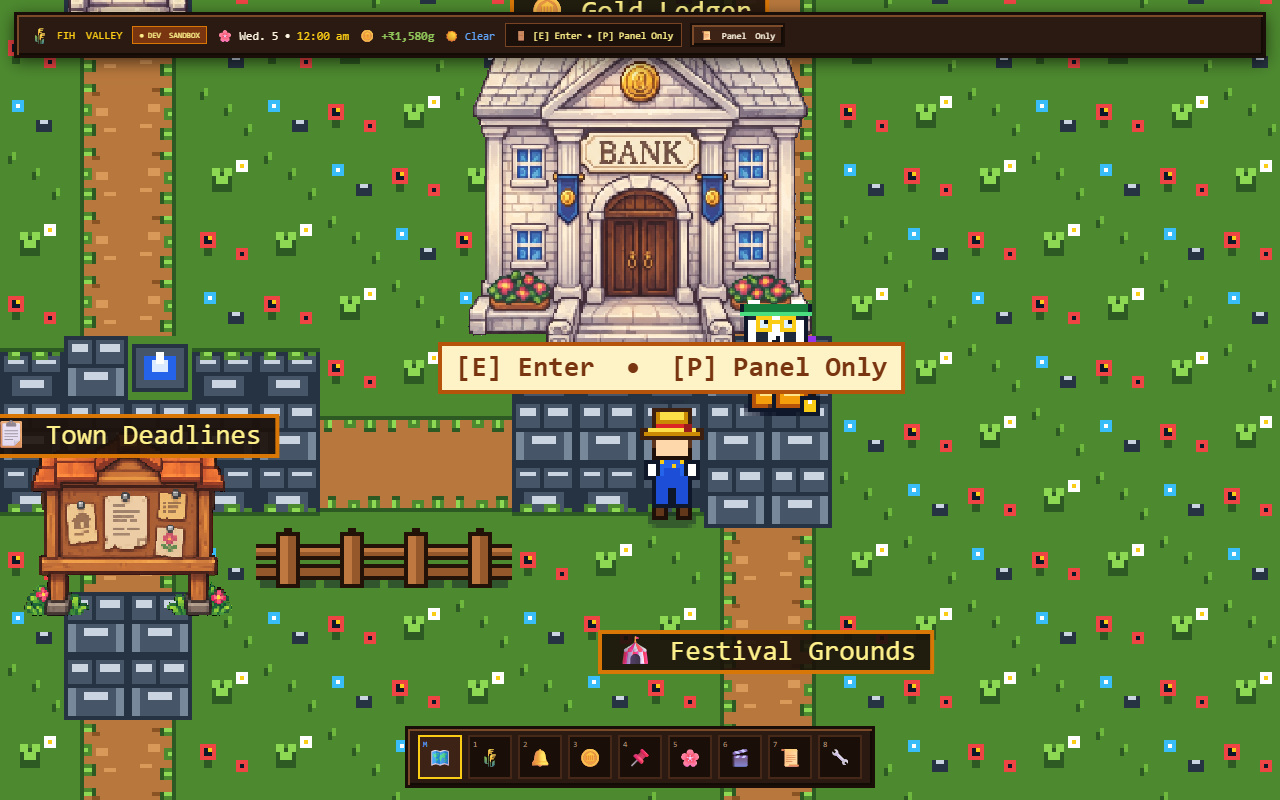
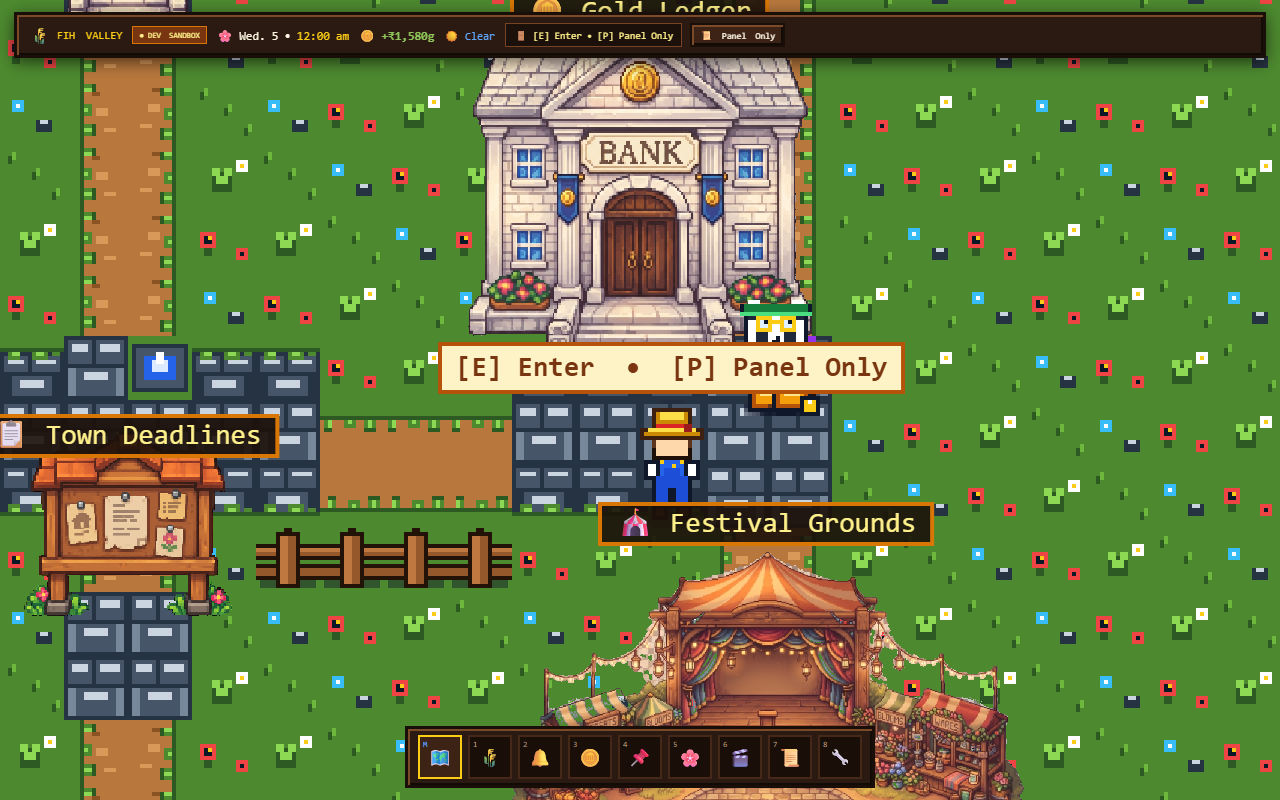
feat(overworld): replace festival grounds with custom pixel art pavilion model

Changed region(s): [[0.4062, 0.625, 0.8125, 1.0]]

diff --git a/components/world/PixelWorldCanvas.jsx b/components/world/PixelWorldCanvas.jsx
@@ -84,12 +84,12 @@ export const BUILDING_HITBOXES = [
     icon: '🎪',
     doorX: 28 * TILE_SIZE,
     doorY: 19 * TILE_SIZE,
-    minX: 25 * TILE_SIZE,
-    minY: 16 * TILE_SIZE,
-    maxX: 31 * TILE_SIZE,
-    maxY: 21 * TILE_SIZE,
+    minX: 24 * TILE_SIZE,
+    minY: 14 * TILE_SIZE,
+    maxX: 32 * TILE_SIZE,
+    maxY: 20 * TILE_SIZE,
     bannerX: 28 * TILE_SIZE,
-    bannerY: 16 * TILE_SIZE - 6,
+    bannerY: 14 * TILE_SIZE - 6,
   },
   {
     id: 'watchlist',
@@ -293,8 +293,8 @@ export function isWalkable(wx, wy) {
     return false;
   }
 
-  // 8. Chapter 5: The Festival Grounds Gazebo canopy (tx: 26-29, ty: 17-18)
-  if (tx >= 26 && tx <= 29 && ty >= 17 && ty <= 18) {
+  // 8. Chapter 5: The Festival Grounds stage & canopy (tx: 26-29, ty: 16-18)
+  if (tx >= 26 && tx <= 29 && ty >= 16 && ty <= 18) {
     return false;
   }
 
@@ -426,7 +426,7 @@ export default function PixelWorldCanvas({
   const lastReportedNearbyRef = useRef(undefined);
 
   const stateRef = useRef({
-    images: { tileset: null, pip: null, bram: null, farmhouse: null, notice_board: null, bank: null, bell_tower: null },
+    images: { tileset: null, pip: null, bram: null, farmhouse: null, notice_board: null, bank: null, bell_tower: null, festival_grounds: null },
     loaded: false,
     camera: { x: 18 * 16, y: 12 * 16 }, // Center at Village Square on spawn
     targetCamera: { x: 18 * 16, y: 12 * 16 },
@@ -456,6 +456,7 @@ export default function PixelWorldCanvas({
       { key: 'notice_board', src: '/assets/buildings/notice_board.png' },
       { key: 'bank', src: '/assets/buildings/bank.png' },
       { key: 'bell_tower', src: '/assets/buildings/bell_tower.png' },
+      { key: 'festival_grounds', src: '/assets/buildings/festival_grounds.png' },
     ];
 
     let count = 0;
@@ -1066,18 +1067,27 @@ export default function PixelWorldCanvas({
         },
       });
 
-      // ── 6. Chapter 5: The Festival Grounds (x: 28, y: 19) ──
+      // ── 6. Chapter 5: The Festival Grounds (New Custom Festival Grounds) ──
       renderables.push({
-        y: 20 * TILE_SIZE,
+        y: 19 * TILE_SIZE + 6,
         render: () => {
-          const gx = 27 * TILE_SIZE;
-          const gy = 17 * TILE_SIZE;
-          ctx.drawImage(tileset, 7 * TILE_SIZE, 3 * TILE_SIZE, TILE_SIZE, TILE_SIZE, gx, gy, TILE_SIZE, TILE_SIZE);
-          ctx.drawImage(tileset, 7 * TILE_SIZE, 3 * TILE_SIZE, TILE_SIZE, TILE_SIZE, gx + TILE_SIZE, gy, TILE_SIZE, TILE_SIZE);
-          ctx.drawImage(tileset, 7 * TILE_SIZE, 2 * TILE_SIZE, TILE_SIZE, TILE_SIZE, gx - TILE_SIZE, gy + TILE_SIZE, TILE_SIZE, TILE_SIZE);
-          ctx.drawImage(tileset, 7 * TILE_SIZE, 2 * TILE_SIZE, TILE_SIZE, TILE_SIZE, gx + 2 * TILE_SIZE, gy + TILE_SIZE, TILE_SIZE, TILE_SIZE);
-          ctx.drawImage(tileset, 7 * TILE_SIZE, 4 * TILE_SIZE, TILE_SIZE, TILE_SIZE, gx - TILE_SIZE, gy + 2 * TILE_SIZE, TILE_SIZE, TILE_SIZE);
-          ctx.drawImage(tileset, 6 * TILE_SIZE, 4 * TILE_SIZE, TILE_SIZE, TILE_SIZE, gx + TILE_SIZE, gy + 2 * TILE_SIZE, TILE_SIZE, TILE_SIZE);
+          const festImg = state.images.festival_grounds;
+          if (festImg) {
+            const bW = 128;
+            const bH = 94;
+            const bX = 28 * TILE_SIZE - bW / 2; // 448 - 64 = 384px
+            const bY = 20 * TILE_SIZE - bH + 4; // 320 - 94 + 4 = 230px
+            ctx.drawImage(festImg, bX, bY, bW, bH);
+          } else {
+            const gx = 27 * TILE_SIZE;
+            const gy = 17 * TILE_SIZE;
+            ctx.drawImage(tileset, 7 * TILE_SIZE, 3 * TILE_SIZE, TILE_SIZE, TILE_SIZE, gx, gy, TILE_SIZE, TILE_SIZE);
+            ctx.drawImage(tileset, 7 * TILE_SIZE, 3 * TILE_SIZE, TILE_SIZE, TILE_SIZE, gx + TILE_SIZE, gy, TILE_SIZE, TILE_SIZE);
+            ctx.drawImage(tileset, 7 * TILE_SIZE, 2 * TILE_SIZE, TILE_SIZE, TILE_SIZE, gx - TILE_SIZE, gy + TILE_SIZE, TILE_SIZE, TILE_SIZE);
+            ctx.drawImage(tileset, 7 * TILE_SIZE, 2 * TILE_SIZE, TILE_SIZE, TILE_SIZE, gx + 2 * TILE_SIZE, gy + TILE_SIZE, TILE_SIZE, TILE_SIZE);
+            ctx.drawImage(tileset, 7 * TILE_SIZE, 4 * TILE_SIZE, TILE_SIZE, TILE_SIZE, gx - TILE_SIZE, gy + 2 * TILE_SIZE, TILE_SIZE, TILE_SIZE);
+            ctx.drawImage(tileset, 6 * TILE_SIZE, 4 * TILE_SIZE, TILE_SIZE, TILE_SIZE, gx + TILE_SIZE, gy + 2 * TILE_SIZE, TILE_SIZE, TILE_SIZE);
+          }
         },
       });
 

diff --git a/tests/worldEngine.test.js b/tests/worldEngine.test.js
@@ -180,6 +180,21 @@ describe('Continuous Village Chapter Anchors (Addendum Section 3)', () => {
     expect(hitTower).not.toBeNull();
     expect(hitTower.id).toBe('reminders');
     expect(hitTower.name).toBe('The Bell Tower');
+
+    // Clicking on the new Festival Grounds pavilion (at tx: 28, ty: 16) hits The Festival Grounds
+    const hitFestival = getHitBuilding(28 * 16, 16 * 16);
+    expect(hitFestival).not.toBeNull();
+    expect(hitFestival.id).toBe('dates');
+    expect(hitFestival.name).toBe('The Festival Grounds');
+  });
+
+  it('detects entrance proximity for the custom Festival Grounds', async () => {
+    const { getNearbyBuilding } = await import('../components/world/PixelWorldCanvas');
+
+    // Standing on the cobblestone apron at (tx: 28, ty: 19) detects The Festival Grounds within range
+    const nearby = getNearbyBuilding(28 * 16, 19 * 16, 36);
+    expect(nearby).not.toBeNull();
+    expect(nearby.id).toBe('dates');
   });
 
   it('detects entrance proximity for the custom Bell Tower', async () => {

diff --git a/docs/redesign/overworld-navigation/walkthrough.md b/docs/redesign/overworld-navigation/walkthrough.md
@@ -59,6 +59,13 @@ The Overworld exploration experience features authentic autotiled dirt paths, so
 
 ---
 
+### 1d. The Festival Grounds Pavilion (Custom Sprite Integration)
+*The grand open-air Festival Grounds (Chapter 5: Milestones & Celebrations) features a majestic wooden pavilion stage with a striped circus-tent canopy, festive fabric bunting, rich draped curtains, hanging amber glass lanterns, wooden speaker's podium, market stalls ("TREATS", "BLOOMS", "WARES"), rows of garden benches, overflowing floral planters, and a circular cobblestone dance plaza seamlessly connecting to the Southeast Festival Lane.*
+
+![Custom Festival Grounds Pavilion in Live Overworld](/C:/Users/gouth/.gemini/antigravity/brain/7a513e8a-e2f0-4f3b-8051-22e22a3a0e1e/overworld-navigation/overworld-festival-custom-desktop.png)
+
+---
+
 ### 2. The Custom Farmstead House & Front Porch Proximity
 *The custom 16-bit house model rendered in the live world, complete with stone chimney, wooden door, flowerbox, glowing lantern, and stone doorstep aligning with the farm lane.*
 
@@ -117,6 +124,7 @@ The Overworld exploration experience features authentic autotiled dirt paths, so
 - [x] **Mobile Panel-Only Mode:** Canvas is completely unmounted on mobile viewports (`window.innerWidth <= 768px`) with zero canvas CPU/touch overhead, defaulting directly to chapter panels (`todos`).
 - [x] **Touch-Optimized Mobile Hotbar:** Displays all 8 chapters neatly across mobile screen width without wrapping or scrolling.
 - [x] **Mobile Resident Banner:** Inline resident dialogue banner inside the parchment container keeping lore intact.
+- [x] **Custom Festival Grounds Pavilion Integrated:** Extracted transparent PNG placed at `/public/assets/buildings/festival_grounds.png` and rendered in the live canvas loop with striped stage canopy, market stalls, flower planter boxes, and cobblestone dance plaza.
 - [x] **Custom Belfry Clock & Bell Tower Integrated:** Extracted transparent PNG placed at `/public/assets/buildings/bell_tower.png` and rendered in the live canvas loop with brass weather vane and clock face.
 - [x] **Custom Bank / Ledger Model Integrated:** Extracted transparent PNG placed at `/public/assets/buildings/bank.png` and rendered in the live canvas loop with Bram the Badger Factor and oak teller desk.
 - [x] **Custom Notice Board Model Integrated:** Extracted transparent PNG placed at `/public/assets/buildings/notice_board.png` and rendered in the live canvas loop.
@@ -129,6 +137,6 @@ The Overworld exploration experience features authentic autotiled dirt paths, so
 - [x] **Consistent 2-Tile Road Width:** Major roads, avenues, and chapter branch lanes are all 32px (2 tiles wide).
 - [x] **Panel Only Proximity Key:** `[P]` opens directly in Panel Only mode from the world map.
 - [x] **Global Escape Handler:** Restores the village canvas from any mode on desktop; stays gracefully in panels on mobile.
-- [x] **Automated Tests:** **54 / 54 passing** in Vitest.
+- [x] **Automated Tests:** **55 / 55 passing** in Vitest.
 - [x] **ESLint:** **0 errors / 0 warnings**.
 - [x] **Production Build:** Clean Next.js 16 Turbopack compilation.
